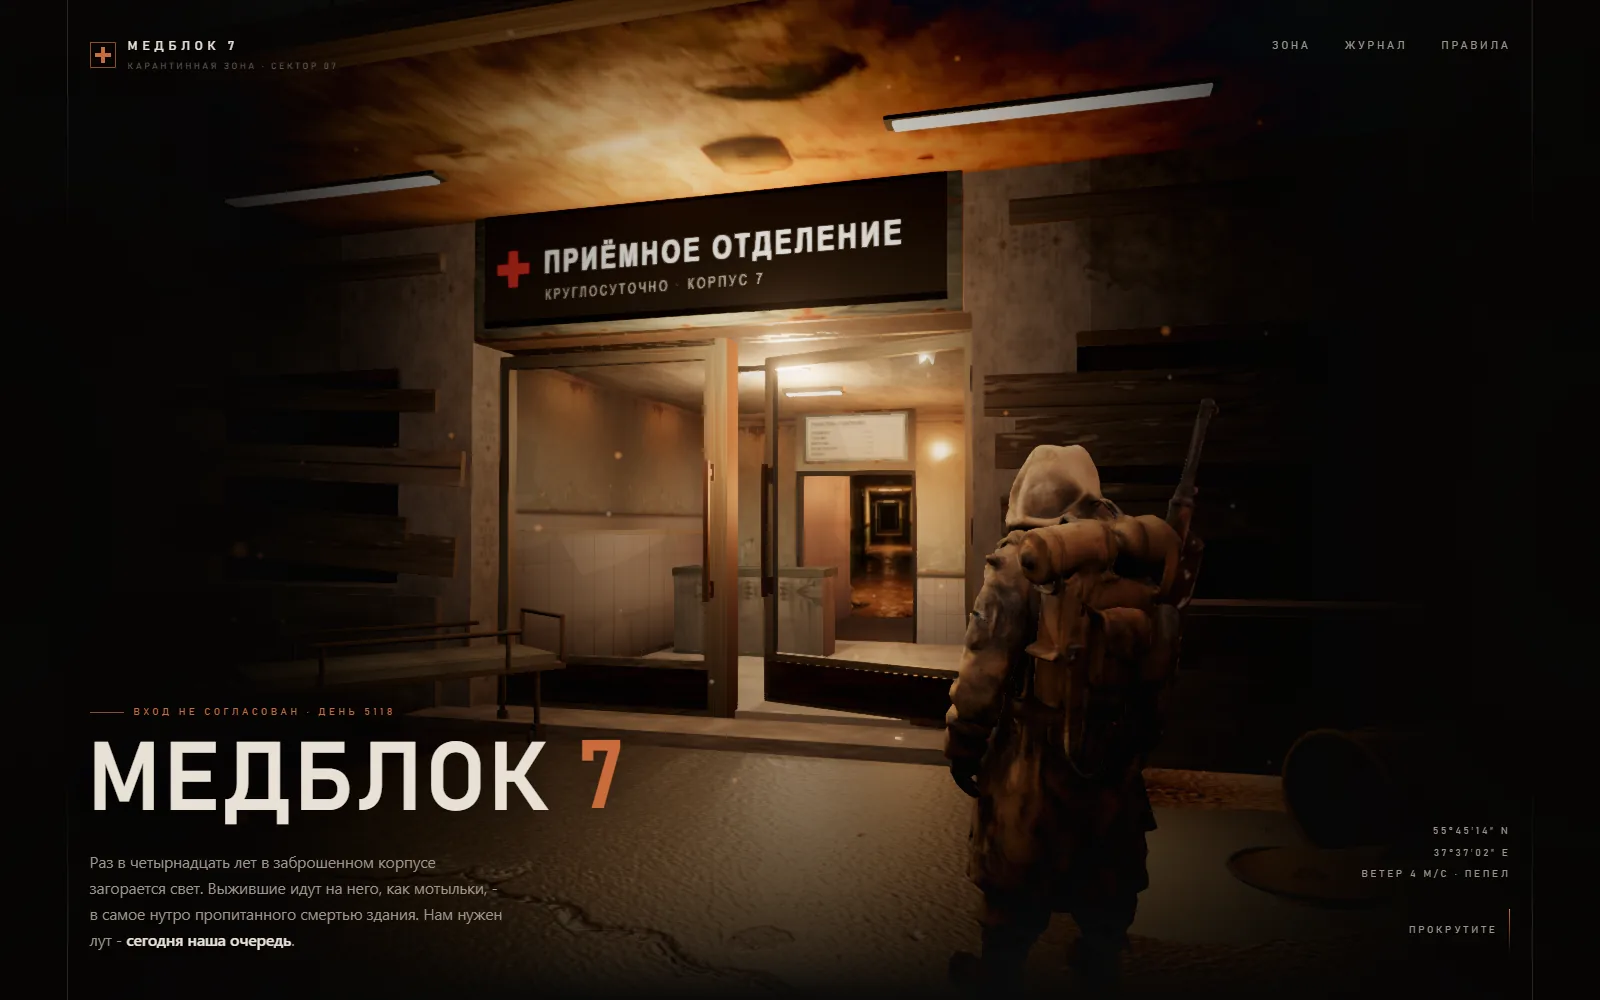
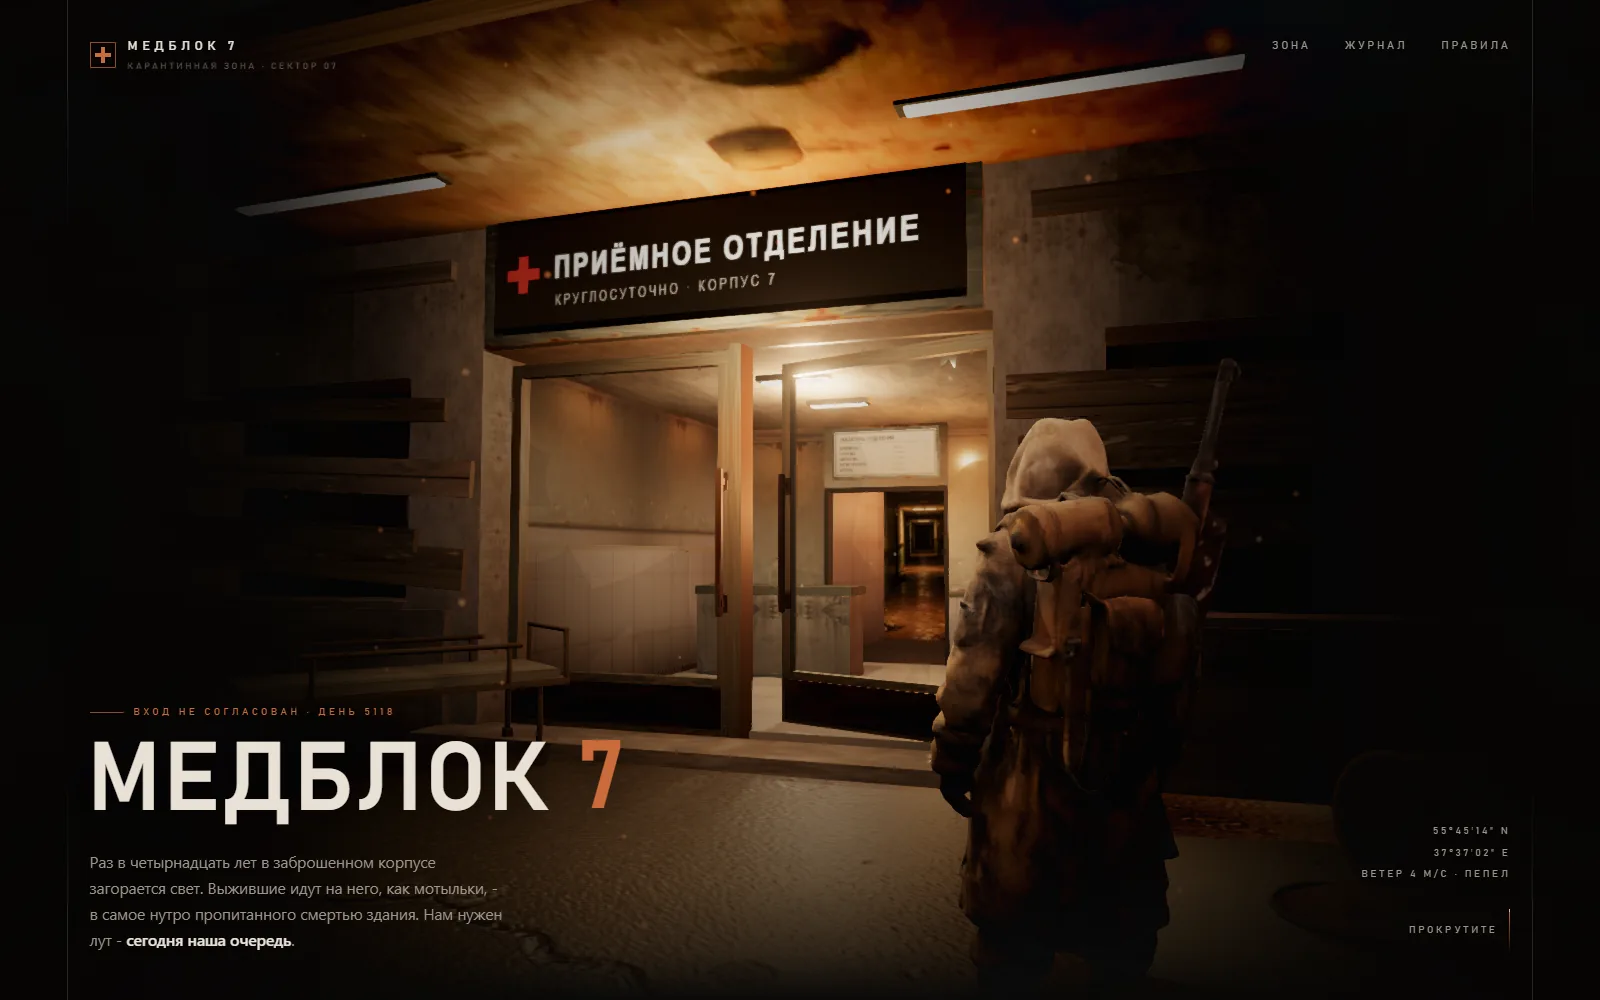
МЕДБЛОК 7: камера ближе (radius 4.55 -> 4.2), новый кадр карточки
В начальном положении персонаж занимал кадр целиком и сапоги лежали на самом
низу. Камера придвинута на 7.7 %: фигура крупнее, ноги уходят за нижнюю кромку.
radiusMin 3.8 -> 3.5, чтобы глубина наезда по прокрутке осталась прежней
(0.75 м). Портретный режим (8.0/6.6) не тронут.

diff --git a/web/munit7/index.html b/web/munit7/index.html
@@ -440,8 +440,8 @@ const CAM = {
   look: new THREE.Vector3(1.2, 1.62, -15.6),
   eyeY: 1.5,
   side: 1.2,            // lateral offset: turns a flat elevation into a 3/4 view
-  radius: 4.55,         // camera distance from the look point at rest
-  radiusMin: 3.8,       // ... after one screen of scroll
+  radius: 4.2,          // camera distance from the look point at rest
+  radiusMin: 3.5,       // ... after one screen of scroll
   orbit: 0.10,          // radians of horizontal orbit at |mouse.x| = 1
 };
 
@@ -3204,8 +3204,8 @@ function resize() {
   // A portrait viewport has a horizontal field of view of about 28 degrees, so the
   // 3.7 m sign simply does not fit at the desktop distance - it was cropped on
   // the left. Back the camera off and centre it on the doorway instead.
-  CAM.radius = narrow ? 8.0 : 4.55;
-  CAM.radiusMin = narrow ? 6.6 : 3.8;
+  CAM.radius = narrow ? 8.0 : 4.2;
+  CAM.radiusMin = narrow ? 6.6 : 3.5;
   CAM.side = narrow ? 0.15 : 1.2;
   CAM.look.x = narrow ? 0.9 : 1.2;
   // the vertical fov is the one three.js takes, so a 0.48 aspect viewport sees
